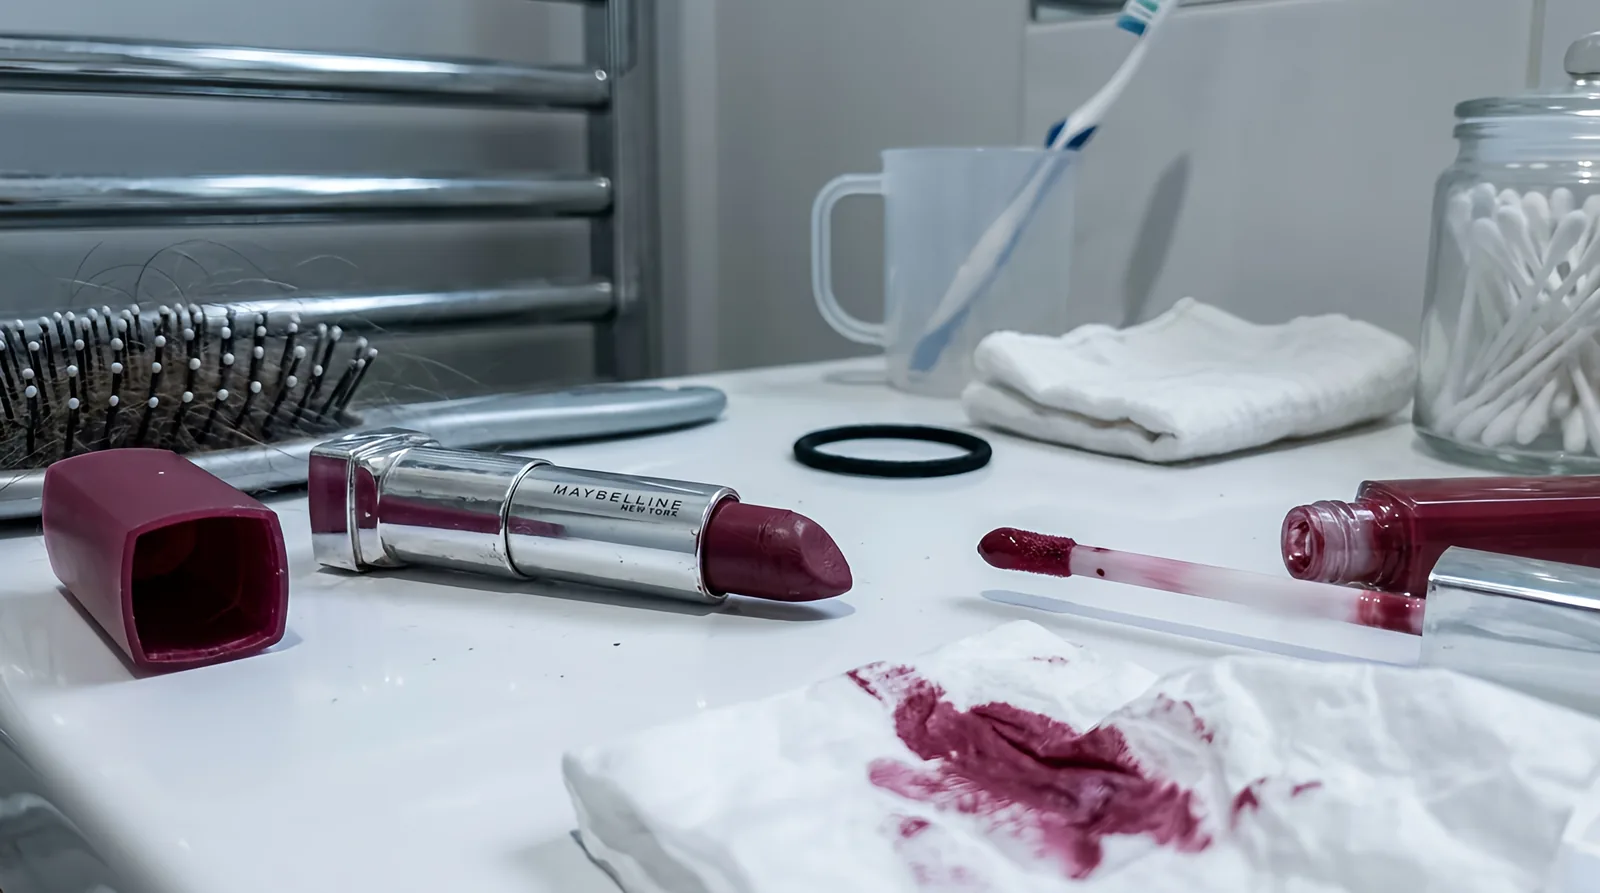
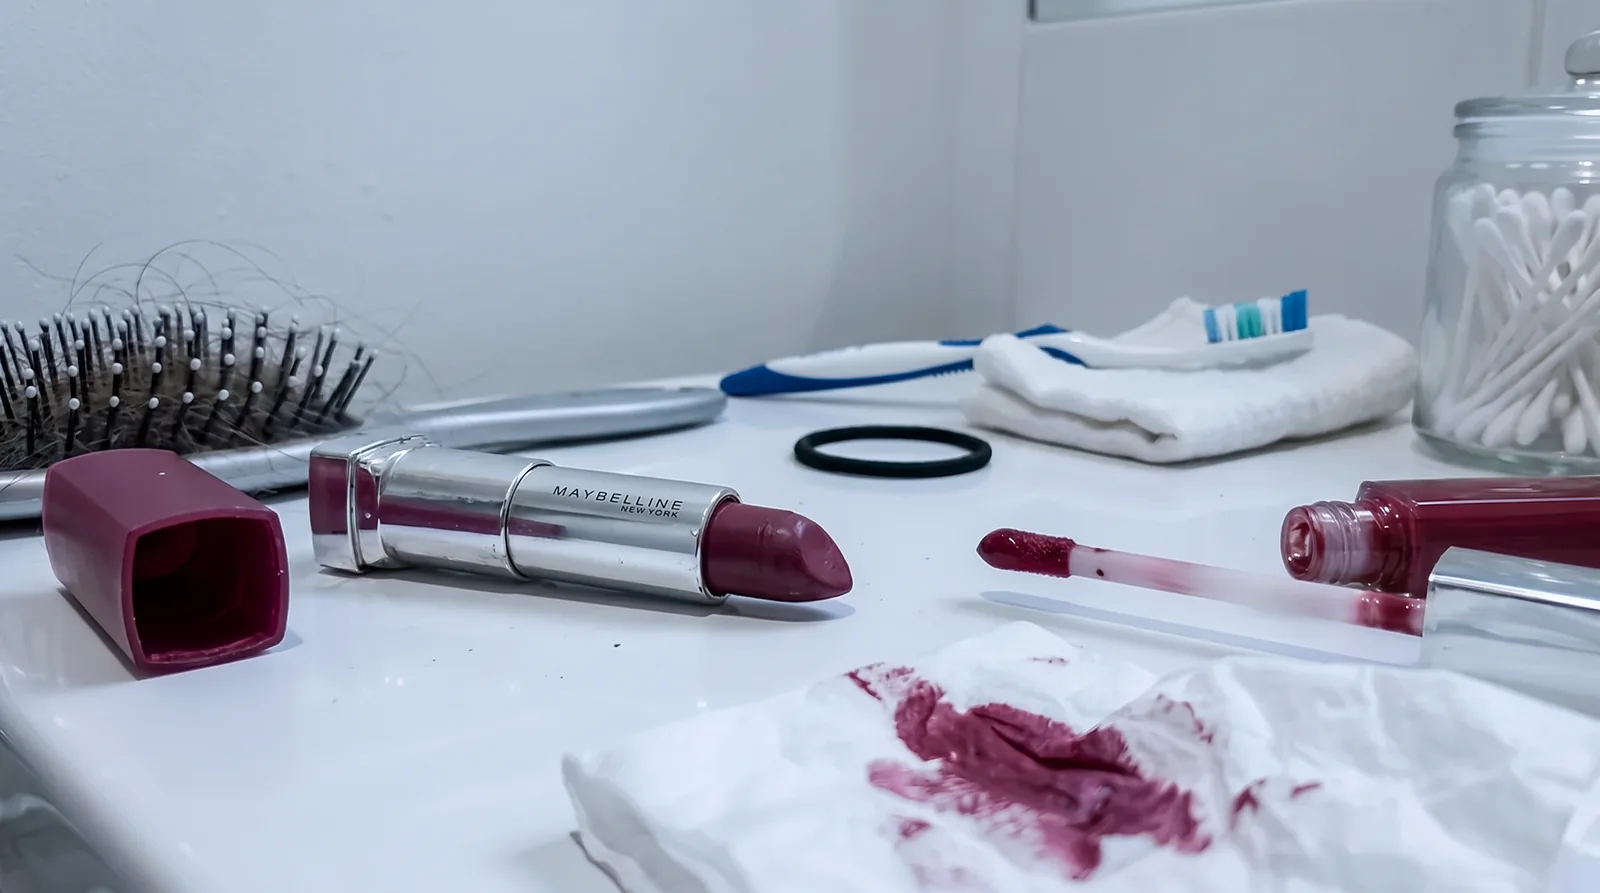
Lipstick belonging redo: big real Denver kitchen, no mugs or vases; villain mug removed, check 15

diff --git a/blog-pipeline/photos-completed/2026-08-27.md b/blog-pipeline/photos-completed/2026-08-27.md
@@ -4,7 +4,7 @@ post_title: Is Your Lipstick Safe? What Ends Up On Your Lips All Day (2026)
 slug: is-your-lipstick-safe
 status: done
 cameron_processed: false
-note: "RESHOT 2026-08-23 on ImagineArt (Nano Banana Pro, each frame enhanced to 2752px then delivered at 1600px webp). THIS SUPERSEDES the 2026-08-11 version, which rendered the lipstick and gloss with NO wordmark at all. Same five filenames, same URLs, new images. The product is now the REAL Maybelline Color Sensational: slim polished silver chrome barrel, cap colour-matched to the deep berry shade, MAYBELLINE NEW YORK in small clean capitals on the barrel. HOW THE BRAND RECOGNITION IS CARRIED: a bullet lipstick is physically too small to hold a legible wordmark in a wide room shot, and three attempts at a close hero either produced a disembodied extra hand or a floating advert-style product cut-out. So the VILLAIN beat carries the brand: it is a close product shot and MAYBELLINE NEW YORK reads perfectly clean and correct on the barrel there. The hero is the natural human frame and the tube in it is simply a lipstick, with no gibberish text on it. ONE hallway locked across hero and turning point (walnut console, round wooden mirror, bowl of keys, stack of post, coats and a leopard scarf on hooks, fern, glass panelled front door). Hero is her about 50, jacket half on and bag already on her shoulder, putting a deep berry lipstick on at the mirror on a weekday morning. Villain is the coldest frame and nobody is in it: a real bathroom counter on hard flat desaturated light with the Maybelline bullet lying twisted all the way up and worn at an angle, its cap off to one side, an open gloss wand beside it, and a crumpled tissue carrying a heavy smear of the same berry red, surrounded by honest counter clutter (hairbrush with hair in it, toothbrush in a mug, hair tie, folded flannel, cotton buds). Turning point has her lower the lipstick, cap in her other hand, looking at her own reflection, settled, decision already made, jacket now off the shoulder, NOT reading anything. BELONGING WAS RESHOT ON 2026-08-25 AND THE FILE OVERWRITTEN IN PLACE. The original was two women sitting on a bed in a dim charcoal and plum bedroom, and Shannon rejected it outright: women do not go into each other bedrooms and sit on the bed, and the worn colours read as dated and generated. It is now two women of the same age standing at the island of a big bright MODERN kitchen over a cafetiere and two mugs, properly mid-conversation and laughing, quartz island, pendant lights, fresh flowers, garden through the window. Same filename, same URL, new image. Freedom is the warmest: outdoors on a sunlit street in full golden light, bare lips, no makeup at all, laughing hard at something a friend just said. She is never made to look vain or silly anywhere in the set. Villain is the product and the company."
+note: "RESHOT 2026-08-23 on ImagineArt (Nano Banana Pro, each frame enhanced to 2752px then delivered at 1600px webp). THIS SUPERSEDES the 2026-08-11 version, which rendered the lipstick and gloss with NO wordmark at all. Same five filenames, same URLs, new images. The product is now the REAL Maybelline Color Sensational: slim polished silver chrome barrel, cap colour-matched to the deep berry shade, MAYBELLINE NEW YORK in small clean capitals on the barrel. HOW THE BRAND RECOGNITION IS CARRIED: a bullet lipstick is physically too small to hold a legible wordmark in a wide room shot, and three attempts at a close hero either produced a disembodied extra hand or a floating advert-style product cut-out. So the VILLAIN beat carries the brand: it is a close product shot and MAYBELLINE NEW YORK reads perfectly clean and correct on the barrel there. The hero is the natural human frame and the tube in it is simply a lipstick, with no gibberish text on it. ONE hallway locked across hero and turning point (walnut console, round wooden mirror, bowl of keys, stack of post, coats and a leopard scarf on hooks, fern, glass panelled front door). Hero is her about 50, jacket half on and bag already on her shoulder, putting a deep berry lipstick on at the mirror on a weekday morning. Villain is the coldest frame and nobody is in it: a real bathroom counter on hard flat desaturated light with the Maybelline bullet lying twisted all the way up and worn at an angle, its cap off to one side, an open gloss wand beside it, and a crumpled tissue carrying a heavy smear of the same berry red, surrounded by honest counter clutter (hairbrush with hair in it, toothbrush in a mug, hair tie, folded flannel, cotton buds). Turning point has her lower the lipstick, cap in her other hand, looking at her own reflection, settled, decision already made, jacket now off the shoulder, NOT reading anything. BELONGING WAS RESHOT ON 2026-08-25 AND THE FILE OVERWRITTEN IN PLACE. The original was two women sitting on a bed in a dim charcoal and plum bedroom, and Shannon rejected it outright: women do not go into each other bedrooms and sit on the bed, and the worn colours read as dated and generated. It is now two women of the same age standing at the island of a big bright MODERN kitchen over a cafetiere and two mugs, properly mid-conversation and laughing, quartz island, pendant lights, fresh flowers, garden through the window. Same filename, same URL, new image. Freedom is the warmest: outdoors on a sunlit street in full golden light, bare lips, no makeup at all, laughing hard at something a friend just said. She is never made to look vain or silly anywhere in the set. Villain is the product and the company. Belonging redone 2026-10-12 for check 15; it was the only kitchen frame and had wooden blinds, a French press, a mug and flowers in a vase. New belonging is a wide shot of a big lived-in kitchen in a suburban house in Denver, Colorado: soft grey shaker cabinets, white quartz island with stools, stainless French-door fridge, dishwasher, gas range with full oven door and tea towels, floor-length cream linen curtains on a black rod at the back windows, the same two women laughing at the island with empty hands and a fruit bowl. A kettle and toaster were removed by edit and British sockets and the fridge display painted out by hand. Villain was edited to remove the mug holding the toothbrush and the towel radiator; the real Maybelline lipstick stays. Hero, turning point and freedom kept. Measured R/B ramp: villain 0.87, hero 1.17, turning point 1.20, belonging 1.49, freedom 1.58."
 ---
 
 ### isyourlipst-hero-v1
